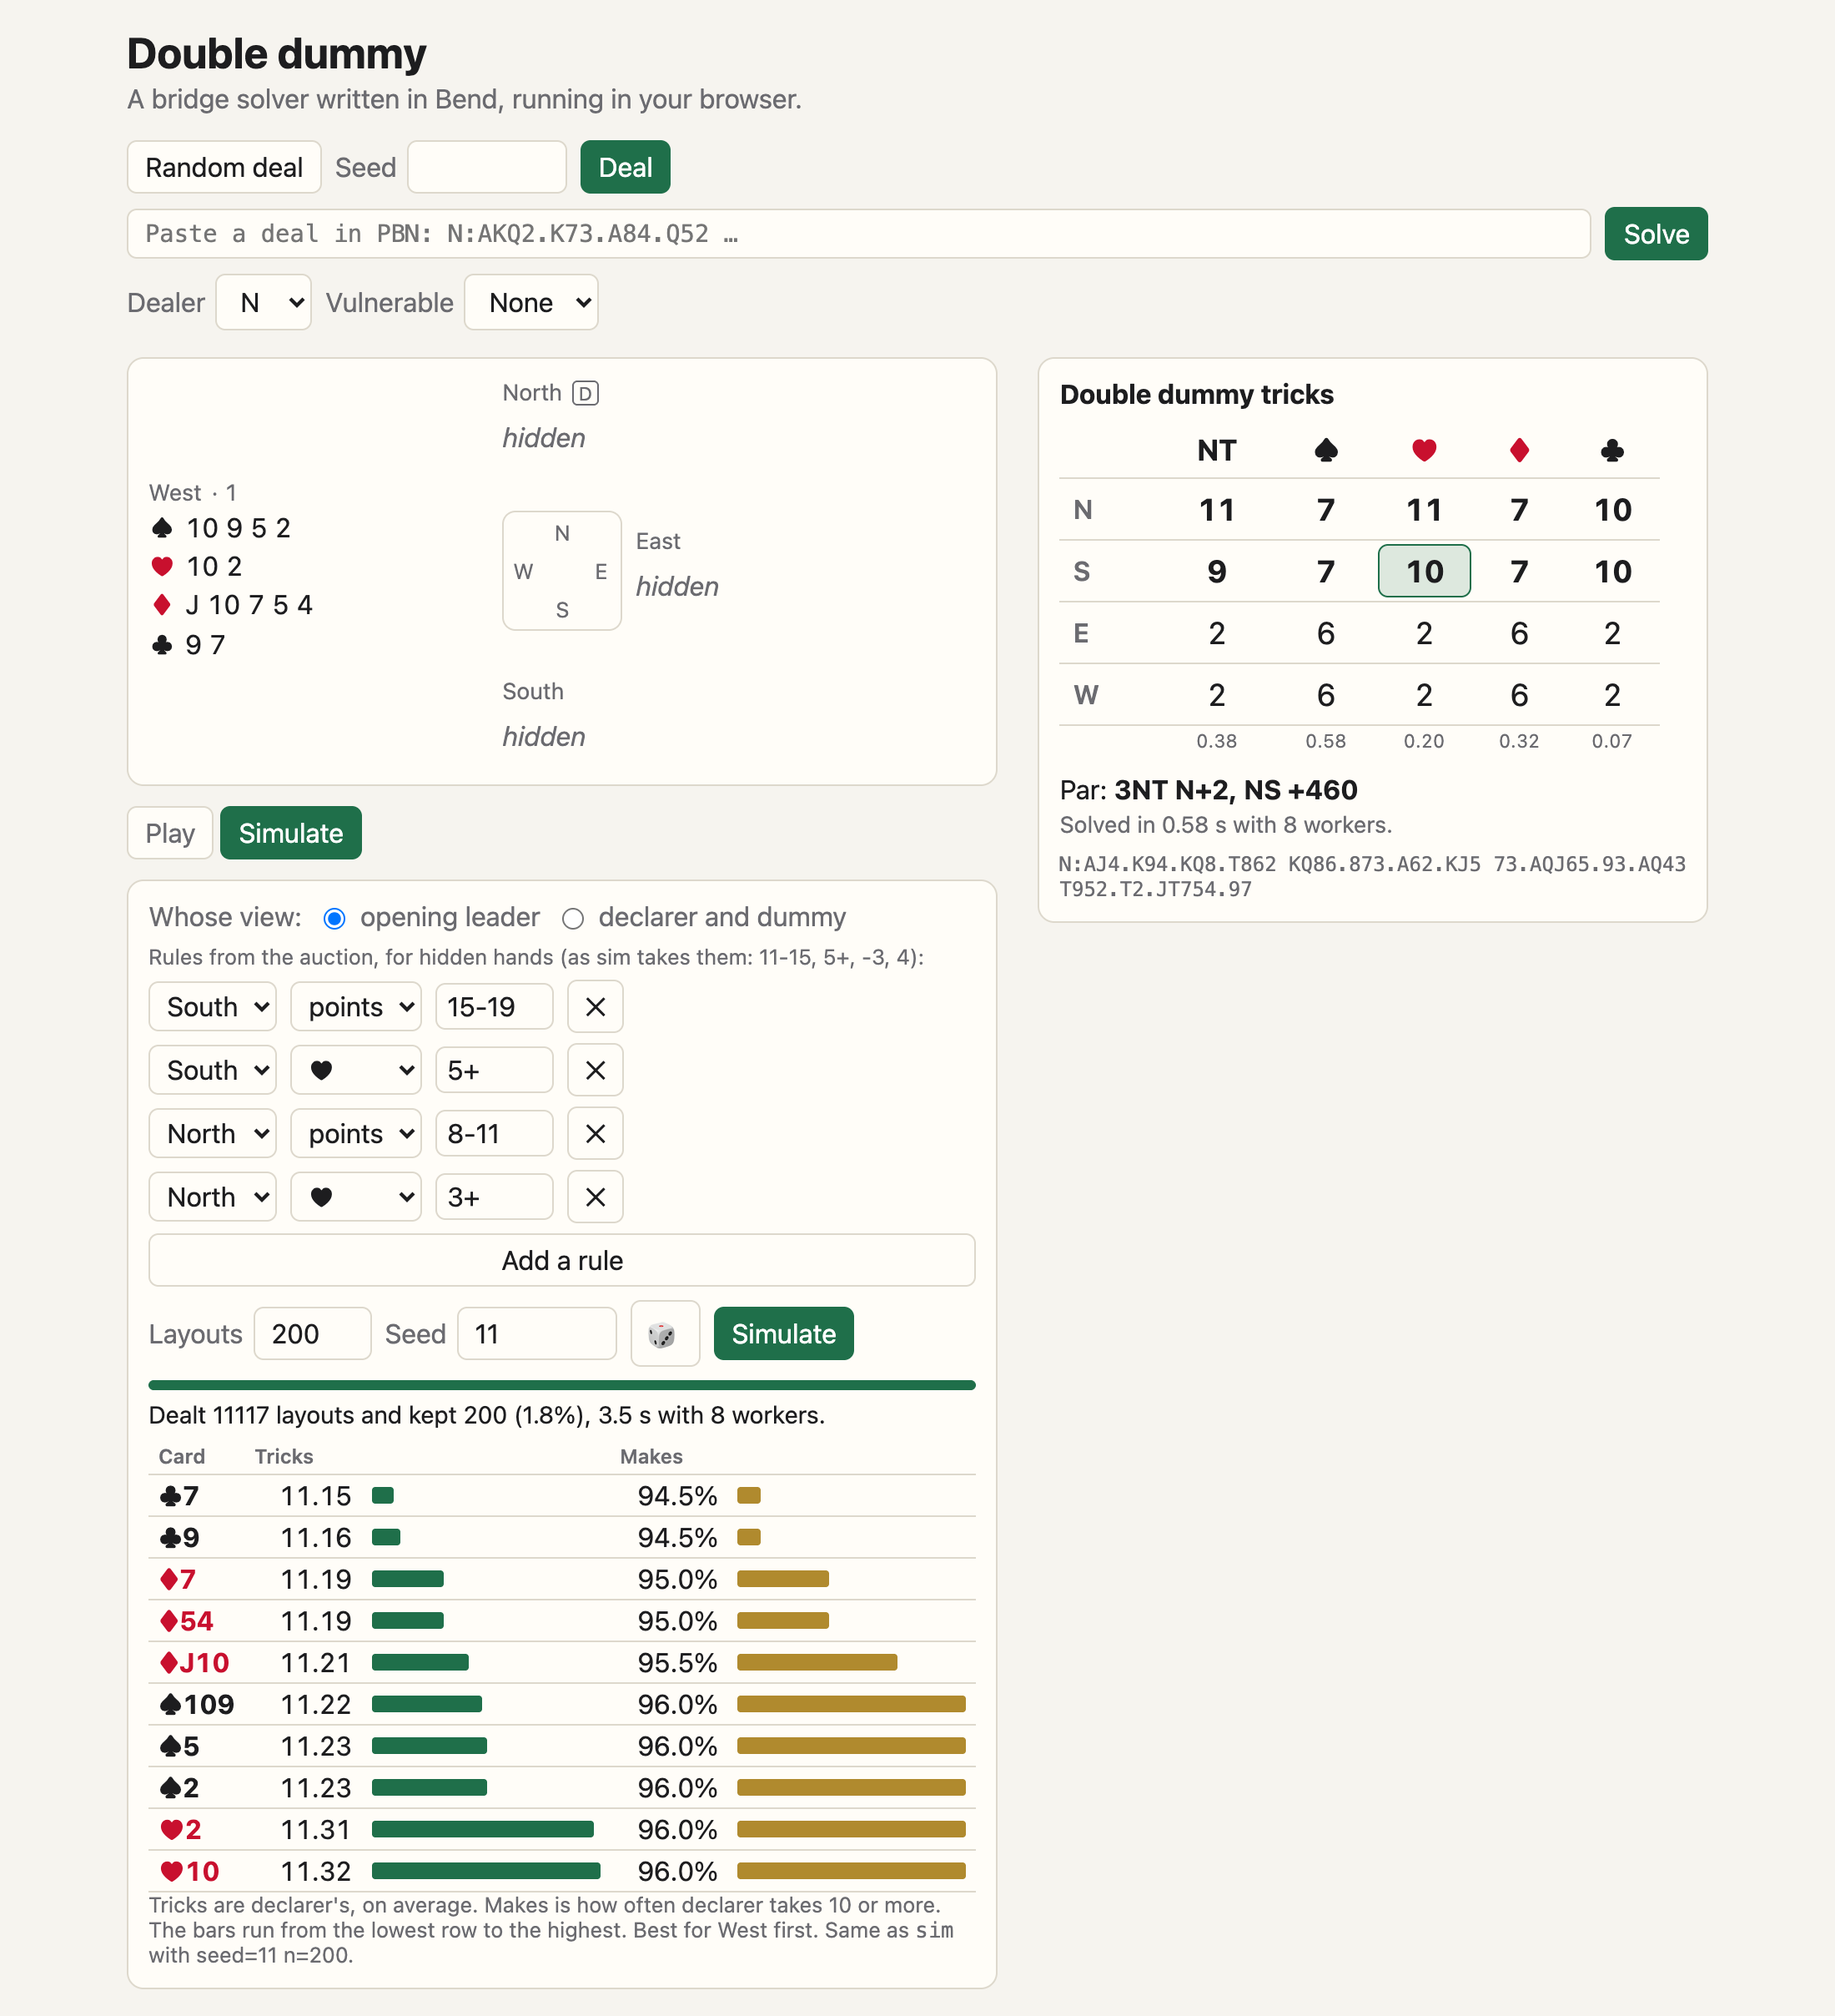
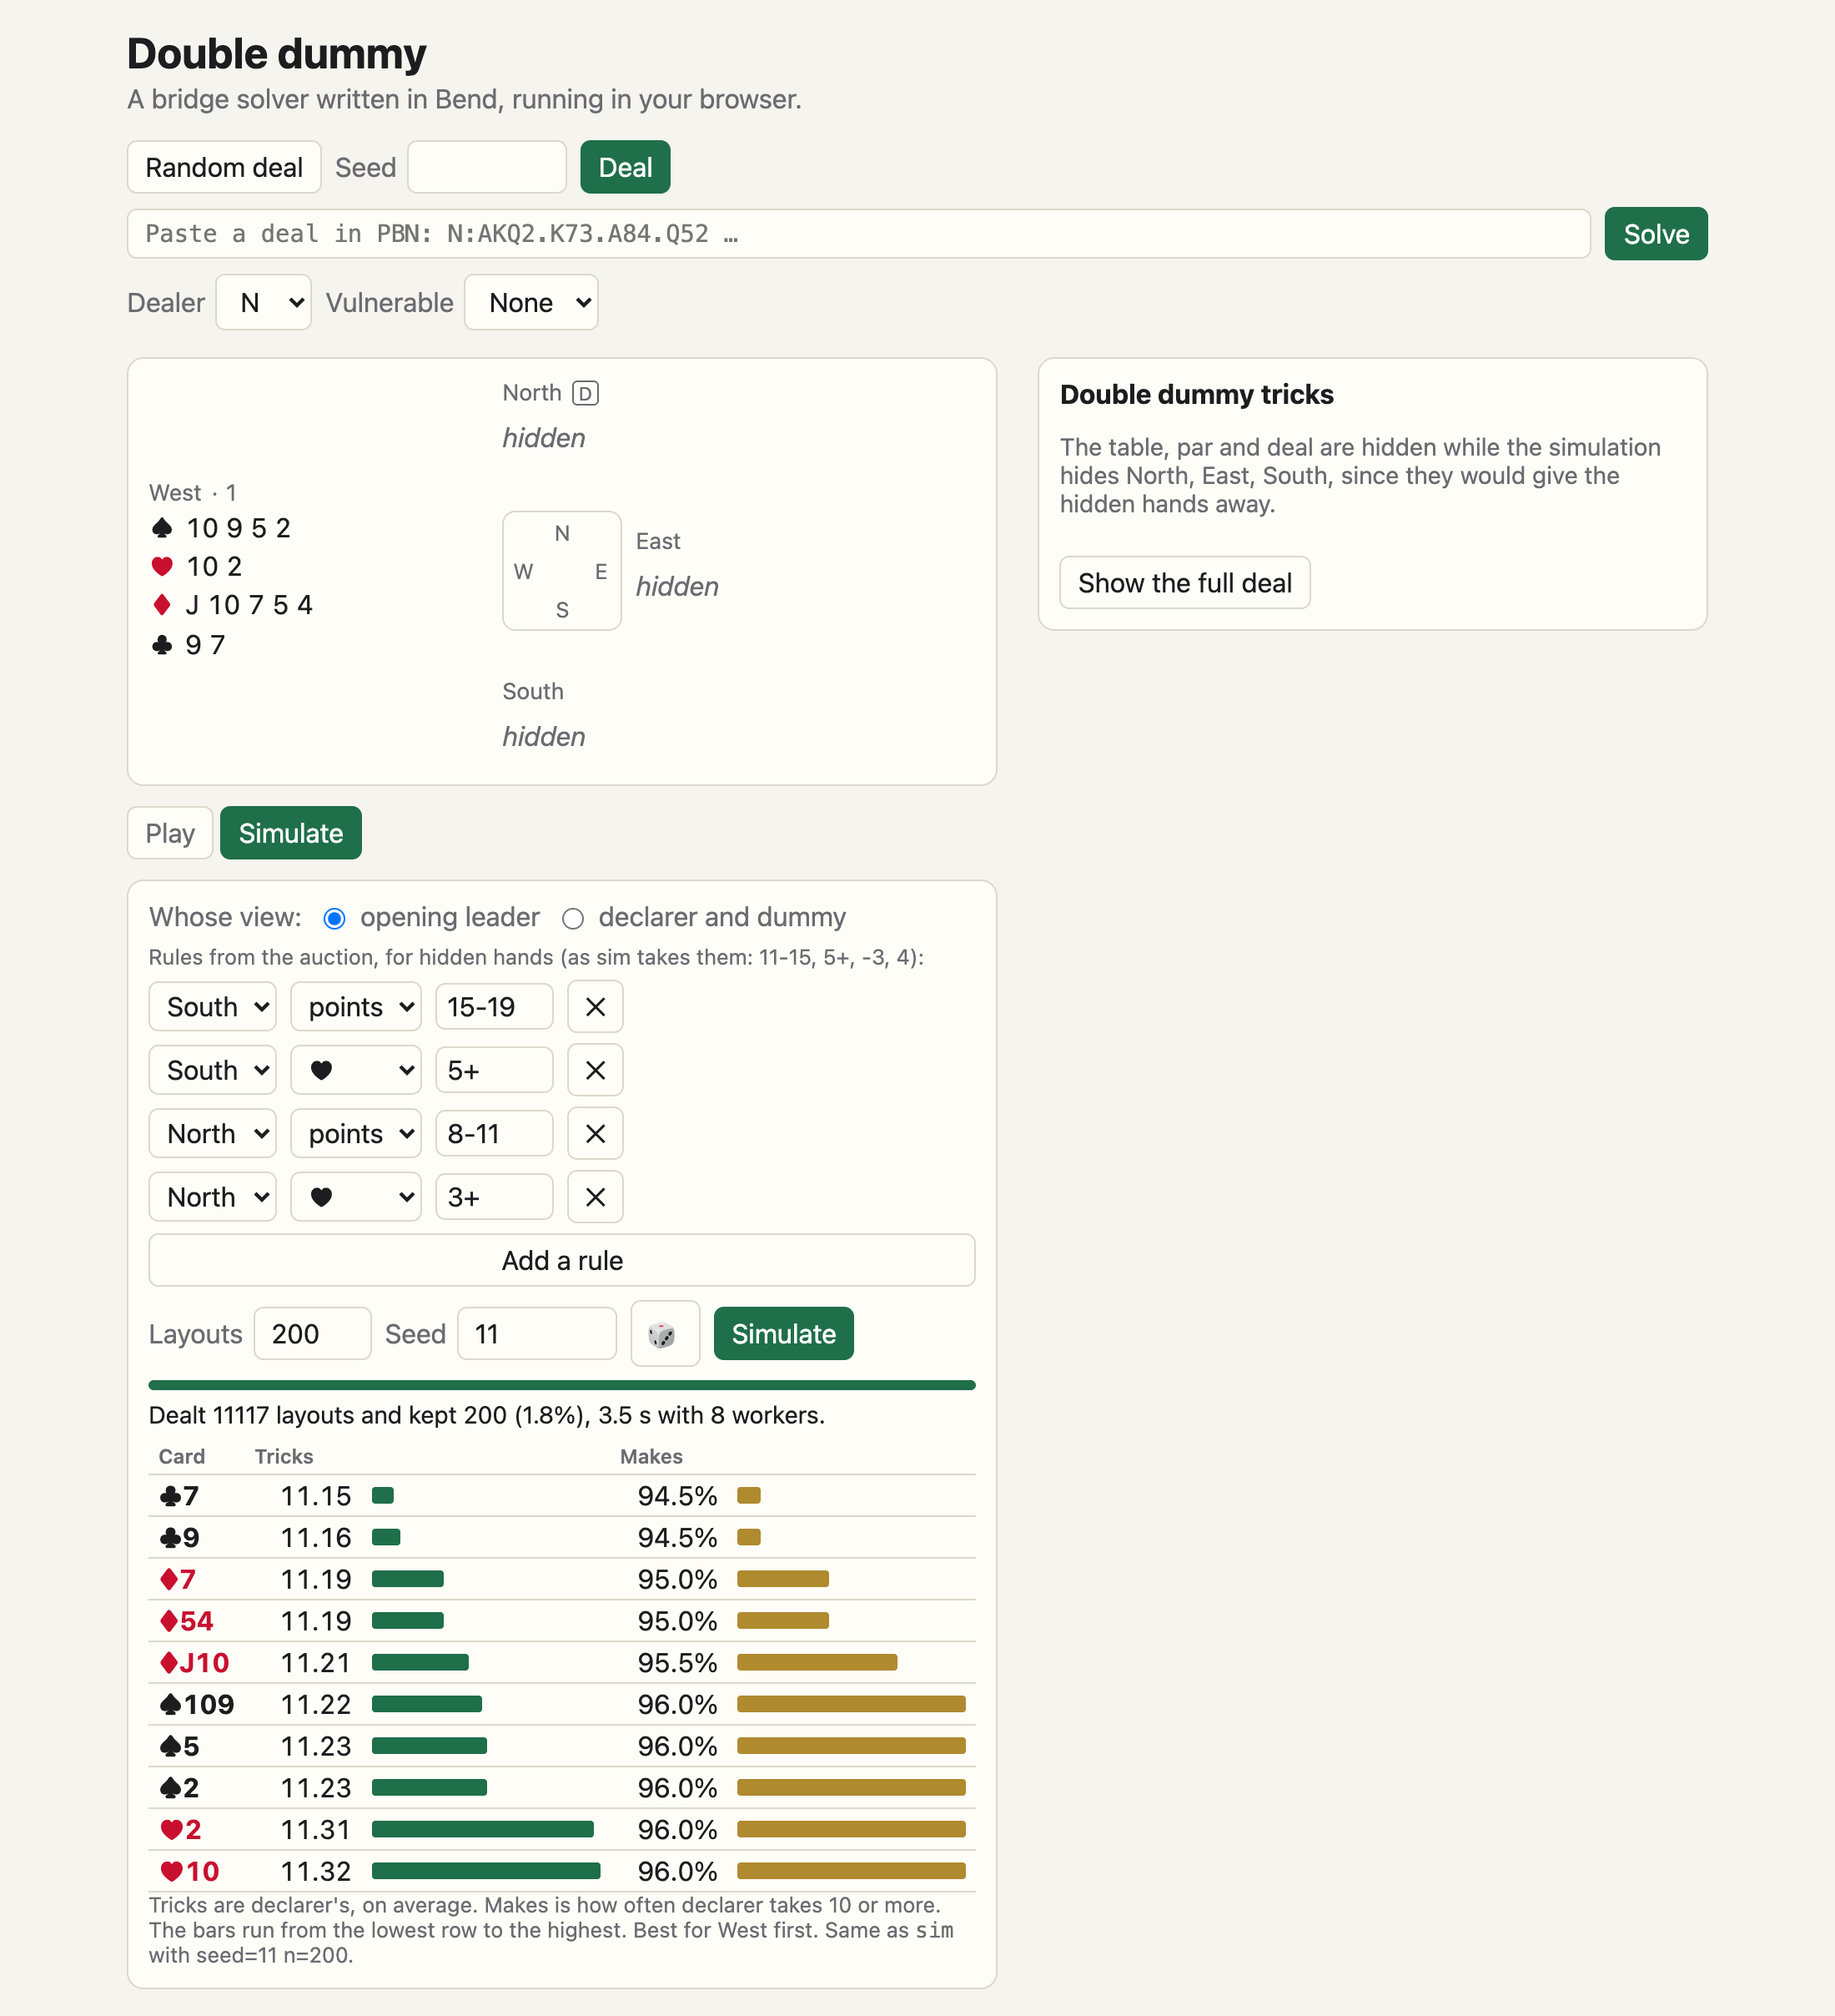
Simulate: hide the table, par and deal while hands are hidden
They give the hidden hands away. A "Show the full deal" button shows
them and the hidden hands again, and "Hide the full deal" puts them
back. The Chromium check now makes sure nothing shows the hidden cards
until the button is pressed, and that it brings them all back.

Claude-Session: https://claude.ai/code/session_01Fbfe28asDP4VexCVSouJUP

diff --git a/web/src/main.tsx b/web/src/main.tsx
@@ -344,6 +344,7 @@ function App() {
   const [seedText, setSeedText] = useState("");
   const [cands, setCands] = useState<Map<string, Cands>>(new Map());
   const [simRun, setSimRun] = useState<SimRun | null>(null);
+  const [reveal, setReveal] = useState(false);
   const run = useRef(0);
   const simId = useRef(0);
   const set = (s: Partial<State>) => setState((old) => ({ ...old, ...s }));
@@ -488,8 +489,10 @@ function App() {
     set({ strain: s, by: seat, level: Math.max(1, Math.min(7, tricks - 6)), plays: [], at: 0 });
 
   const simMode = playing && state.tab === "sim";
+  // While the simulation hides hands, the table, par and the deal would show them.
+  const secret = !!simMode && hidden.length > 0 && !reveal;
   const modes: HandMode[] = [0, 1, 2, 3].map((s) =>
-    simMode && hidden.includes(s) ? { kind: "hidden" }
+    simMode && hidden.includes(s) && !reveal ? { kind: "hidden" }
       : play && !play.error ? { kind: "play", left: play.hands[s], opts: here ? options(play, here) : null, onPlay: playCard }
       : { kind: "view" });
 
@@ -539,17 +542,28 @@ function App() {
             )}
           </div>
           <div class="analysis">
-            <h2>Double dummy tricks</h2>
-            <TableView table={table} times={times} pick={pick} chosen={playing ? [state.strain!, state.by!] : undefined} />
-            <p class="par">
-              {parResult ? <>Par: <strong>{parResult.text}</strong></> : <span class="wait">Solving…</span>}
-            </p>
-            <p class="meta">
-              {total != null ? `Solved in ${(total / 1000).toFixed(2)} s with ${pool.size} workers.` : `${pool.size} workers, one strain each.`}
-              {state.seed !== undefined && !state.pbn && <> Same deal as <code>dd --random {state.seed}</code>.</>}
-            </p>
-            {!playing && done && <p class="hint">Click a number to play that contract.</p>}
-            <p class="pbn-out"><code>{pbn}</code></p>
+            {secret ? (
+              <div class="secret">
+                <h2>Double dummy tricks</h2>
+                <p class="muted">The table, par and deal are hidden while the simulation hides {hidden.map((x) => SEAT_NAMES[x]).join(", ")}, since they would give the hidden hands away.</p>
+                <button type="button" class="reveal" onClick={() => setReveal(true)}>Show the full deal</button>
+              </div>
+            ) : (
+              <>
+              <h2>Double dummy tricks</h2>
+              <TableView table={table} times={times} pick={pick} chosen={playing ? [state.strain!, state.by!] : undefined} />
+              <p class="par">
+                {parResult ? <>Par: <strong>{parResult.text}</strong></> : <span class="wait">Solving…</span>}
+              </p>
+              <p class="meta">
+                {total != null ? `Solved in ${(total / 1000).toFixed(2)} s with ${pool.size} workers.` : `${pool.size} workers, one strain each.`}
+                {state.seed !== undefined && !state.pbn && <> Same deal as <code>dd --random {state.seed}</code>.</>}
+              </p>
+              {!playing && done && <p class="hint">Click a number to play that contract.</p>}
+              <p class="pbn-out"><code>{pbn}</code></p>
+                {simMode && hidden.length > 0 && <button type="button" class="reveal" onClick={() => setReveal(false)}>Hide the full deal</button>}
+              </>
+            )}
           </div>
         </section>
       )}

diff --git a/web/src/style.css b/web/src/style.css
@@ -162,3 +162,6 @@ table.simrows td.bar { width: 30%; }
 table.simrows td.bar div { height: 10px; background: var(--accent); border-radius: 2px; }
 table.simrows td.bar.makes div { background: #b08a2e; }
 button.stop { background: var(--red); border-color: var(--red); }
+
+.secret p { font-size: 0.9rem; }
+button.reveal { background: var(--card); color: var(--ink); border-color: var(--line); margin-top: 8px; }
